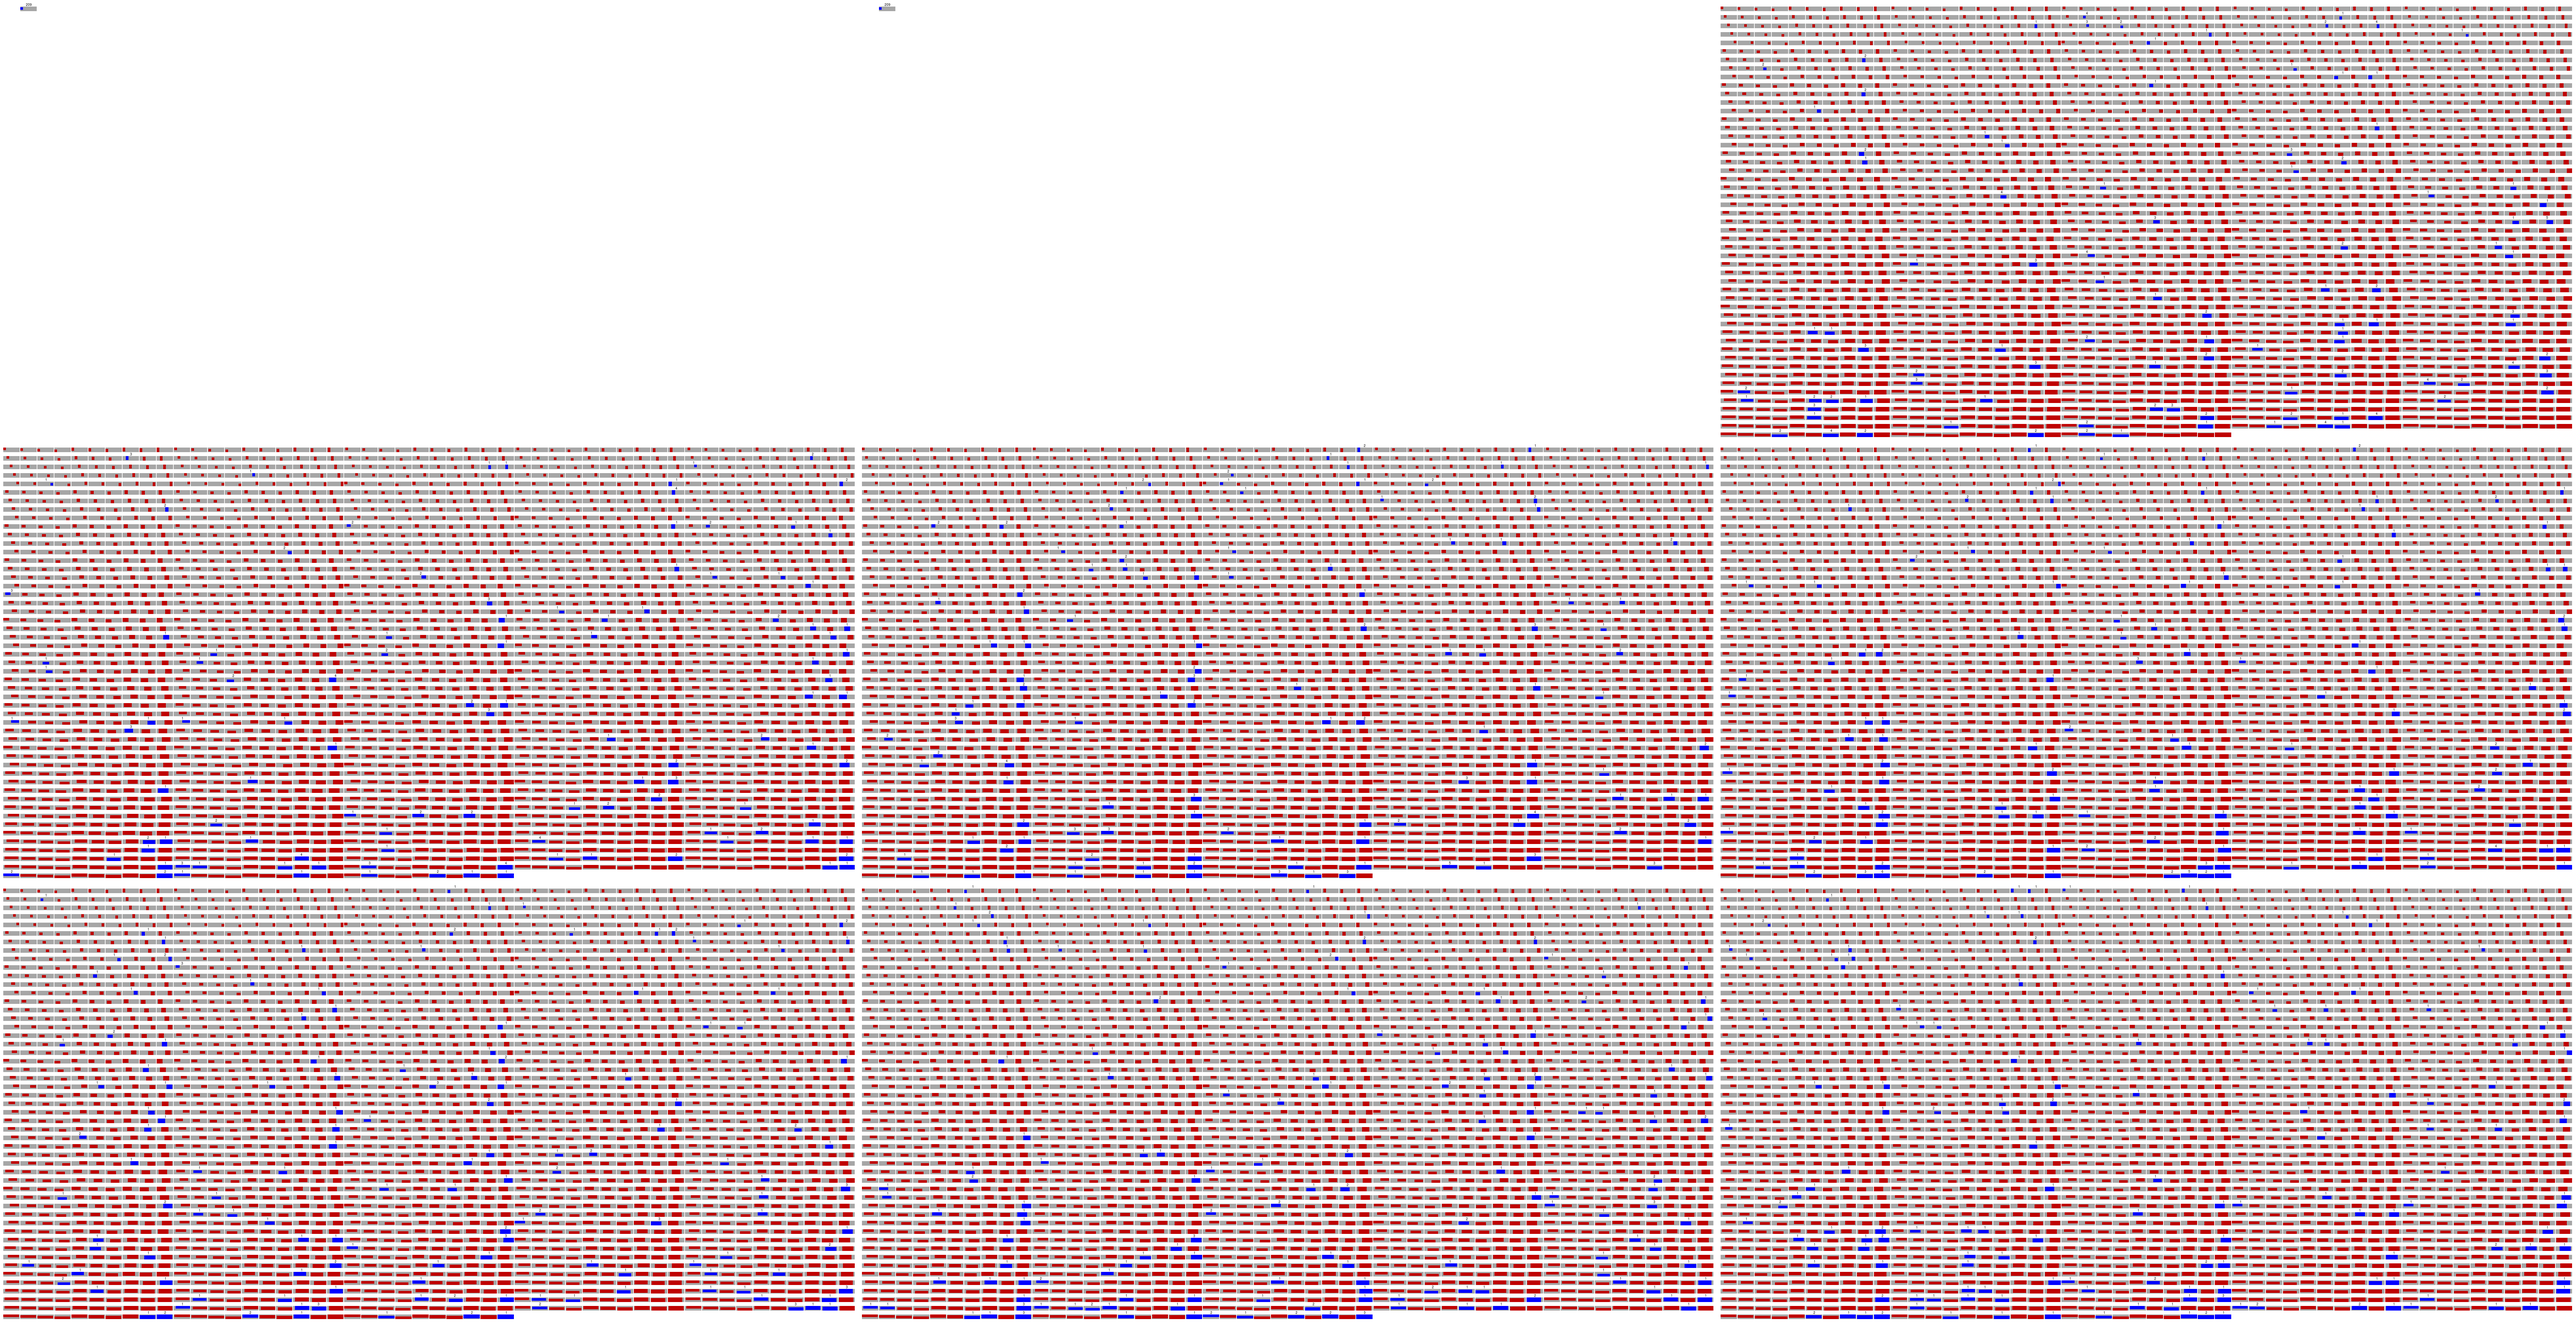
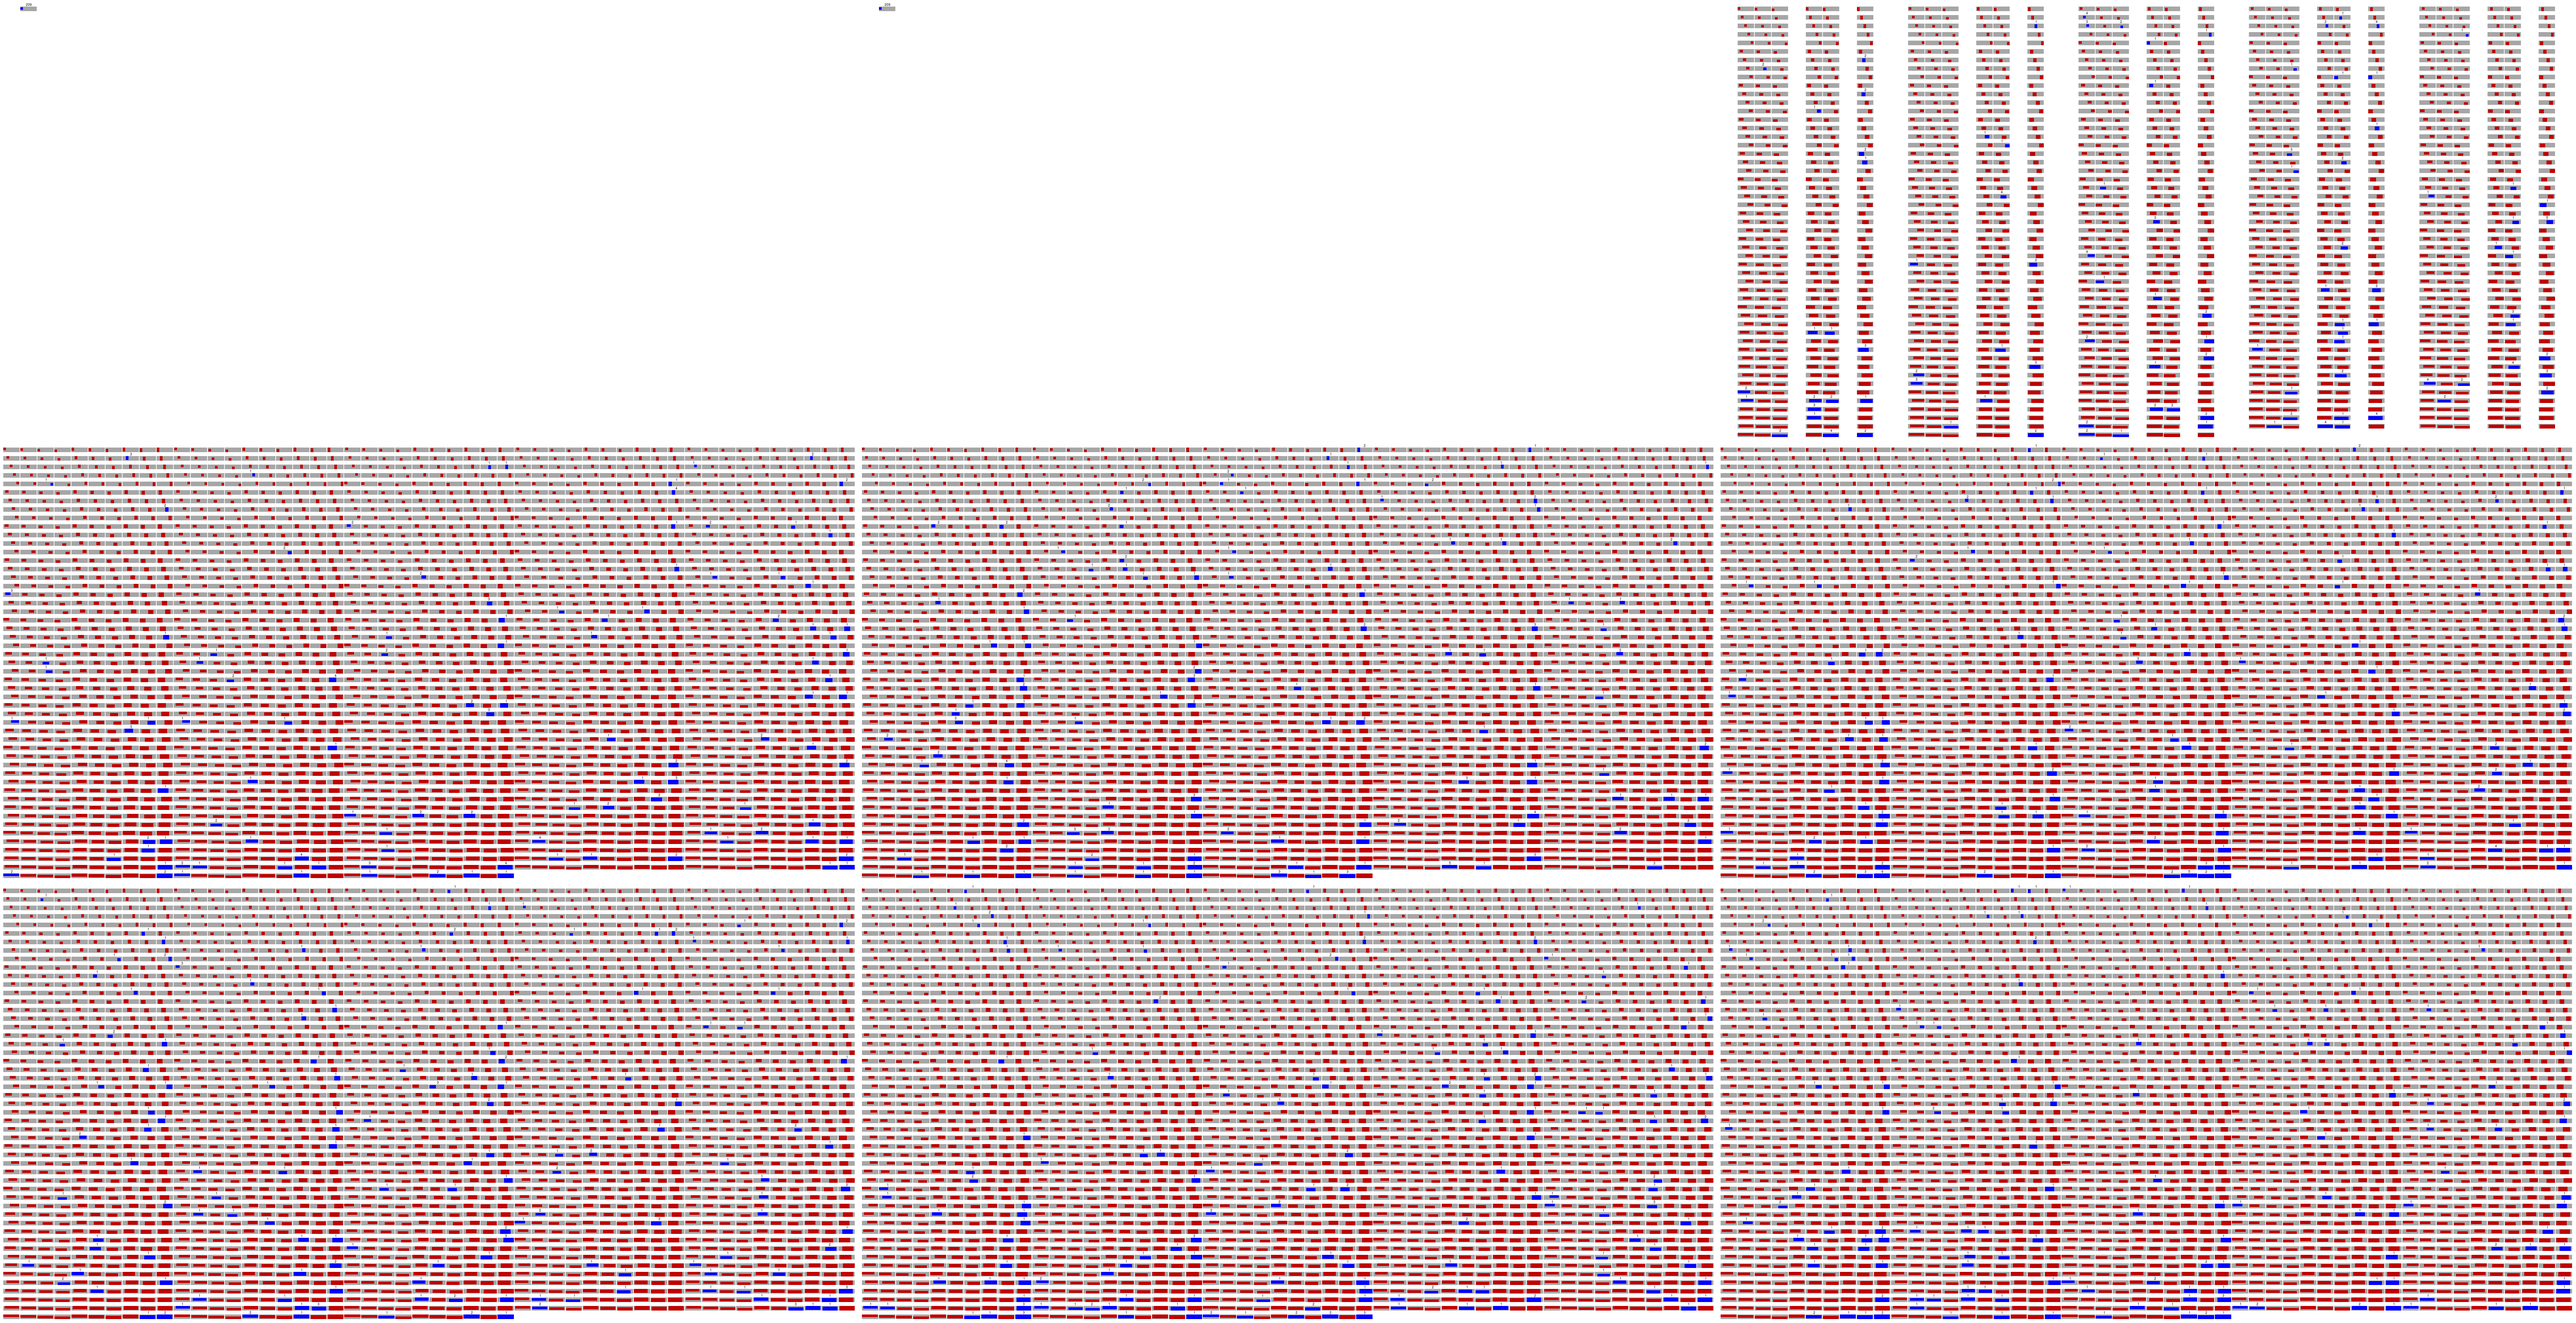
More viz tool fixes

Changed region(s): [[0.6546, 0.0, 1.0, 0.3432]]

diff --git a/vis-room-configurations-2.py b/vis-room-configurations-2.py
@@ -5,6 +5,10 @@ inputFilename="all-rooms.csv"
 if len(sys.argv) >= 2:
     inputFilename=sys.argv[1]
 
+outputFilename="example.png"
+if len(sys.argv) >= 3:
+    outputFilename=sys.argv[2]
+    
 # 9 rooms in a 3x3 grid
 # Up to 50 cells wide and 51 cells tall in each grid
 # Each cell needs to have a number and 7x25 picture
@@ -51,6 +55,24 @@ def draw_room( room_num, row, col, height, width, y, x, label,
 
 show_forbidden_rooms = False
 show_total_distribution = True
+num_rooms_postselected = 0
+
+with open( inputFilename, "r" ) as f:
+    num_per_room = {}
+    for line in f:
+        toks = line.split( "," )
+        if len(toks) != 7:
+            continue
+        
+        room = int(toks[0])
+        label = toks[6].rstrip()
+
+        if label != "0":
+            num_per_room[room] = num_per_room.get( room, 0 ) + 1
+
+    num_rooms_postselected = sum(1 for count in num_per_room.values()
+                                 if count == 1)
+    print( "Num postselected inferred to be", num_rooms_postselected )
 
 with open( inputFilename, "r" ) as f:
     for line in f:
@@ -96,7 +118,9 @@ with open( inputFilename, "r" ) as f:
                           y,
                           x,
                           label)
-            elif room > 1:
+            # Display in red configurations that would ordinarily be
+            # permitted but do not appear in the post-selected sample.
+            elif (room >= 3 or y > 0) and room >= num_rooms_postselected: 
                 draw_room(room,
                           feature // 50,
                           feature % 50,
@@ -109,5 +133,5 @@ with open( inputFilename, "r" ) as f:
                           )
             
             
-surface.write_to_png("example.png")
+surface.write_to_png(outputFilename)
 
